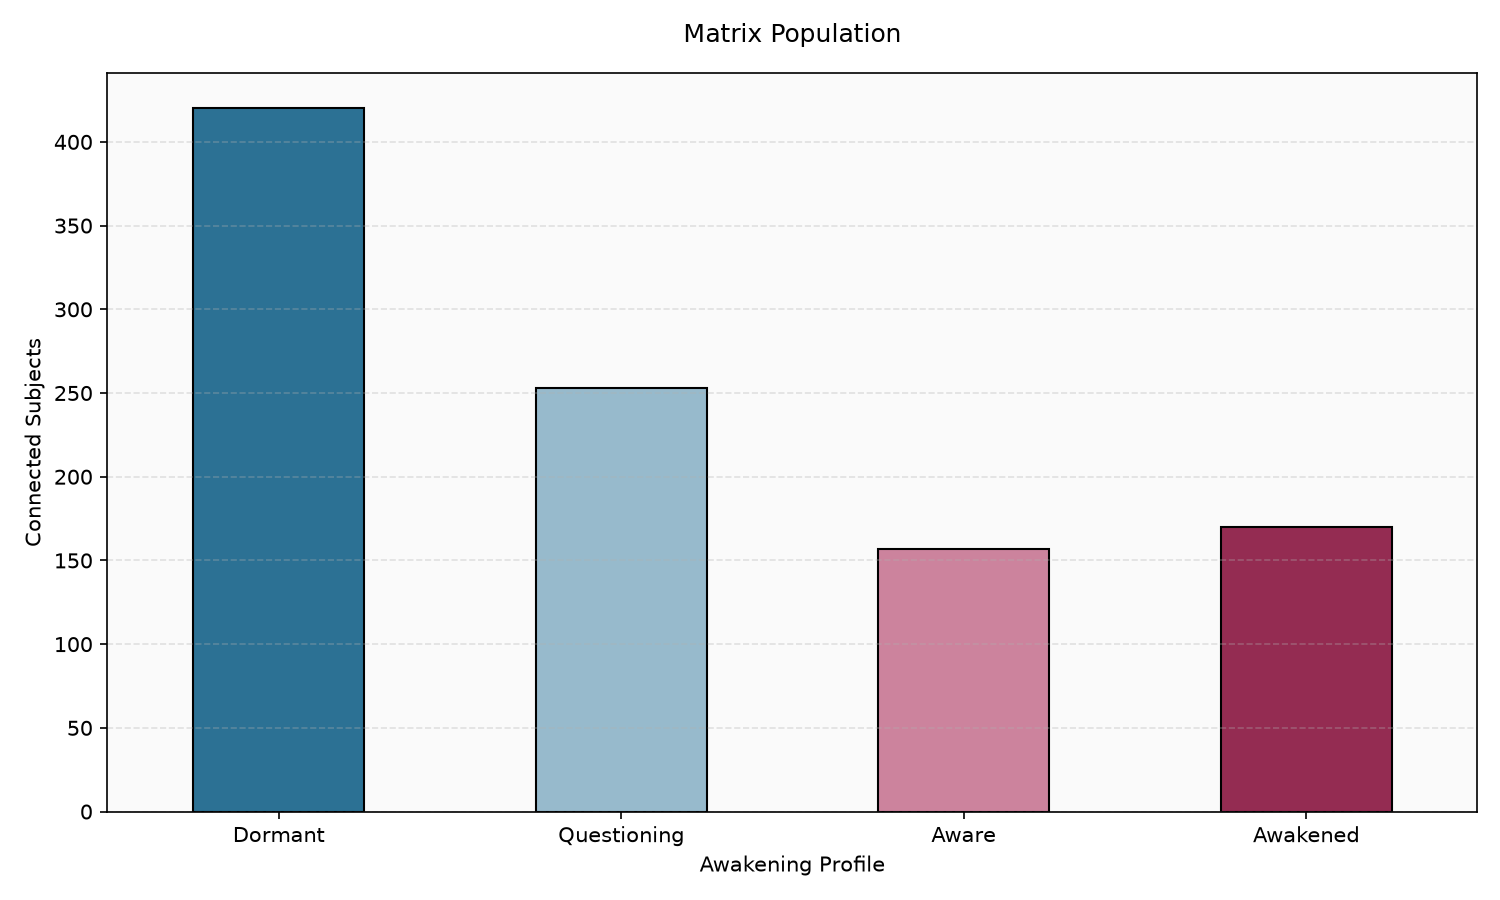
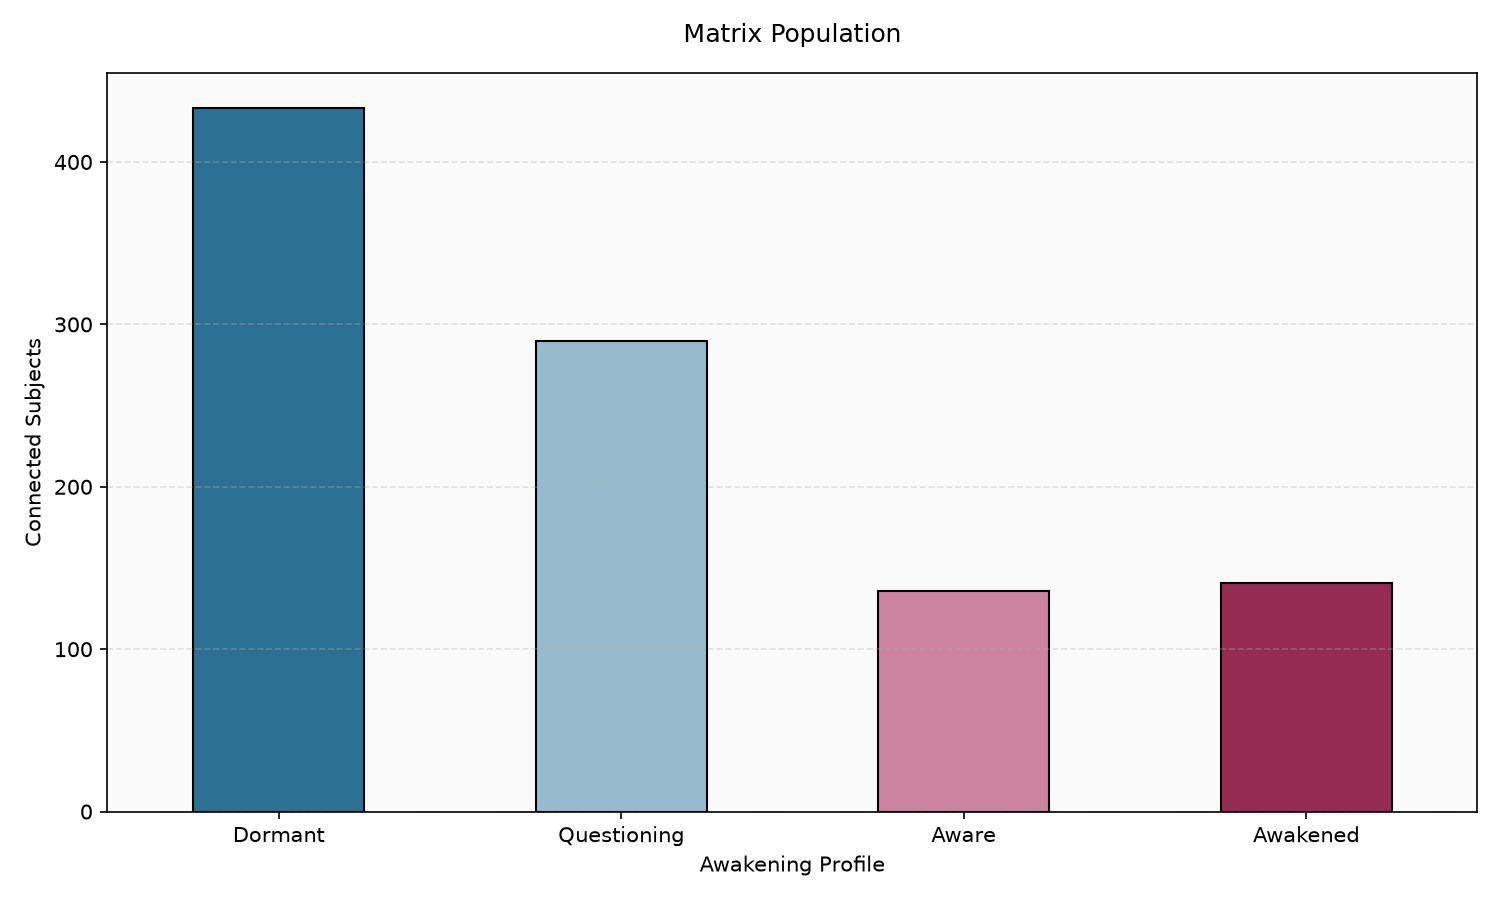
all

diff --git a/pm08/exp.html b/pm08/exp.html
@@ -1,0 +1,185 @@
+<!doctype html>
+<html lang="en">
+<head>
+  <meta charset="utf-8">
+  <meta name="viewport" content="width=device-width, initial-scale=1">
+  <title>Matrix Data Engineering — Evaluation Guide</title>
+  <style>
+    :root {
+      --navy: #102236;
+      --blue: #2c7194;
+      --pale-blue: #97bacc;
+      --rose: #cc839d;
+      --red: #942c52;
+      --paper: #ffffff;
+      --soft: #f4f7fa;
+      --ink: #1f2933;
+      --muted: #536271;
+      --line: #d7e0e8;
+      --code: #17212b;
+    }
+    * { box-sizing: border-box; }
+    body {
+      margin: 0;
+      color: var(--ink);
+      background: var(--soft);
+      font-family: Arial, Helvetica, sans-serif;
+      line-height: 1.55;
+    }
+    main {
+      max-width: 980px;
+      margin: 28px auto;
+      padding: 46px 58px;
+      background: var(--paper);
+      box-shadow: 0 2px 14px rgba(16, 34, 54, 0.12);
+    }
+    h1, h2, h3 { color: var(--navy); line-height: 1.2; }
+    h1 { font-size: 2.1rem; margin: 0 0 8px; }
+    h2 { border-bottom: 2px solid var(--pale-blue); margin-top: 42px; padding-bottom: 8px; }
+    h3 { margin-top: 28px; }
+    .subtitle { color: var(--muted); margin-top: 0; font-size: 1.05rem; }
+    .note, .answer, .warning {
+      border-left: 5px solid var(--blue);
+      background: #eef6fa;
+      padding: 14px 17px;
+      margin: 18px 0;
+    }
+    .answer { border-left-color: var(--red); background: #fcf2f5; }
+    .warning { border-left-color: #b27819; background: #fff8e8; }
+    code {
+      font-family: Consolas, "Courier New", monospace;
+      background: #edf2f5;
+      padding: 1px 4px;
+      border-radius: 3px;
+    }
+    pre {
+      background: var(--code);
+      color: #e8f0f5;
+      padding: 16px;
+      overflow-x: auto;
+      border-radius: 5px;
+      line-height: 1.45;
+    }
+    pre code { background: transparent; padding: 0; }
+    table { border-collapse: collapse; width: 100%; margin: 16px 0 22px; }
+    th, td { border: 1px solid var(--line); text-align: left; padding: 9px 10px; vertical-align: top; }
+    th { background: #eaf1f5; color: var(--navy); }
+    ul, ol { padding-left: 22px; }
+    li { margin: 6px 0; }
+    .toc a { color: var(--blue); text-decoration: none; }
+    .toc a:hover { text-decoration: underline; }
+    .small { color: var(--muted); font-size: .93rem; }
+    @media print {
+      body { background: white; }
+      main { margin: 0; max-width: none; box-shadow: none; padding: 18mm; }
+      h2 { page-break-after: avoid; }
+      pre, table, .note, .answer, .warning { break-inside: avoid; }
+    }
+  </style>
+</head>
+<body>
+<main>
+  <h1>Matrix Data Engineering</h1>
+  <p class="subtitle">Evaluation guide — project flow, concepts, explanations, and rehearsal answers</p>
+
+  <div class="note">
+    <strong>Project in one sentence:</strong> This project demonstrates how to isolate Python projects with virtual environments, manage dependencies with pip and Poetry, and load secure configuration through environment variables; Exercise 1 also simulates and visualizes a Matrix population.
+  </div>
+
+  <h2>Contents</h2>
+  <ol class="toc">
+    <li><a href="#map">Project map</a></li>
+    <li><a href="#ex0">Exercise 0 — construct.py</a></li>
+    <li><a href="#ex1">Exercise 1 — loading.py</a></li>
+    <li><a href="#ex2">Exercise 2 — oracle.py</a></li>
+    <li><a href="#concepts">Important concepts</a></li>
+    <li><a href="#tests">Testing checklist</a></li>
+    <li><a href="#questions">Evaluation questions and answers</a></li>
+  </ol>
+
+  <h2 id="map">1. Project map</h2>
+  <table>
+    <thead><tr><th>Exercise</th><th>Files</th><th>Main lesson</th></tr></thead>
+    <tbody>
+      <tr><td>0</td><td><code>construct.py</code></td><td>Detecting and understanding virtual environments.</td></tr>
+      <tr><td>1</td><td><code>loading.py</code>, <code>requirements.txt</code>, <code>pyproject.toml</code></td><td>Managing dependencies with pip and Poetry; generating, analyzing, and plotting simulated data.</td></tr>
+      <tr><td>2</td><td><code>oracle.py</code>, <code>requirements.txt</code>, <code>.env.example</code>, <code>.gitignore</code></td><td>Secure configuration through environment variables and <code>.env</code> files.</td></tr>
+    </tbody>
+  </table>
+
+  <h2 id="ex0">2. Exercise 0 — construct.py</h2>
+  <h3>Purpose</h3>
+  <p>This program checks whether the currently running Python interpreter belongs to a virtual environment. It prints different information and instructions depending on the result.</p>
+
+  <h3>Imports</h3>
+  <table>
+    <thead><tr><th>Import</th><th>Meaning and use</th></tr></thead>
+    <tbody>
+      <tr><td><code>import sys</code></td><td>Gives information about the running Python interpreter: <code>sys.prefix</code>, <code>sys.base_prefix</code>, and <code>sys.executable</code>.</td></tr>
+      <tr><td><code>import os</code></td><td>Lets the program read environment variables such as <code>VIRTUAL_ENV</code> and manipulate file paths.</td></tr>
+      <tr><td><code>import site</code></td><td>Provides package-installation locations through <code>site.getsitepackages()</code> and <code>site.getusersitepackages()</code>.</td></tr>
+    </tbody>
+  </table>
+
+  <h3>Flow</h3>
+  <ol>
+    <li>Python runs <code>main()</code> only when the file is executed directly, because of <code>if __name__ == "__main__"</code>.</li>
+    <li><code>in_virtual_environment()</code> compares <code>sys.prefix</code> with <code>sys.base_prefix</code>.</li>
+    <li>If they differ, Python is running inside a venv. If they are the same, it is using global Python.</li>
+    <li><code>get_environment_name()</code> tries to read <code>VIRTUAL_ENV</code>; it extracts the final folder name with <code>os.path.basename()</code>.</li>
+    <li><code>get_package_path()</code> finds the active package directory, normally a path ending in <code>site-packages</code>.</li>
+    <li>The program prints either a success message for the venv or instructions to create and activate one.</li>
+  </ol>
+
+  <h3>Key commands</h3>
+  <pre><code>python3 -m venv matrix_env
+source matrix_env/bin/activate      # Unix/macOS
+matrix_env\Scripts\activate         # Windows
+deactivate</code></pre>
+  <ul>
+    <li><code>python3 -m venv matrix_env</code> creates a venv folder named <code>matrix_env</code>.</li>
+    <li>Activation changes the current terminal session so <code>python</code> and <code>pip</code> use that venv.</li>
+    <li><code>deactivate</code> leaves the venv but does not delete it. You can activate the same venv later and keep its installed packages.</li>
+  </ul>
+
+  <h2 id="ex1">3. Exercise 1 — loading.py</h2>
+  <h3>Purpose</h3>
+  <p>This is a Matrix population scanner. It checks packages, explains pip and Poetry, simulates 1,000 connected subjects, calculates an awakening score, places each subject into an awakening profile, counts profiles, and saves a chart as <code>matrix_analysis.png</code>.</p>
+
+  <h3>Imports</h3>
+  <table>
+    <thead><tr><th>Import</th><th>Use in this file</th></tr></thead>
+    <tbody>
+      <tr><td><code>import sys</code></td><td>Uses <code>sys.exit(1)</code> to stop safely when dependencies are unavailable.</td></tr>
+      <tr><td><code>from importlib import metadata</code></td><td>Uses <code>metadata.version(package_name)</code> to ask Python which installed version a package has.</td></tr>
+      <tr><td><code>from typing import Final</code></td><td>Marks configuration values as constants that should not be reassigned.</td></tr>
+      <tr><td><code>import numpy as np</code></td><td>Imported inside <code>run_analysis()</code>. Generates numerical random data and clips values to a percentage range.</td></tr>
+      <tr><td><code>import pandas as pnd</code></td><td>Imported inside <code>run_analysis()</code>. Creates the table, calculates columns, categorizes scores, and counts profiles.</td></tr>
+      <tr><td><code>import matplotlib.pyplot as plt</code></td><td>Imported inside <code>run_analysis()</code>. Saves the chart image.</td></tr>
+    </tbody>
+  </table>
+
+  <h3>Constants</h3>
+  <table>
+    <thead><tr><th>Constant</th><th>Role</th></tr></thead>
+    <tbody>
+      <tr><td><code>DEPENDENCIES</code></td><td>Maps required package names to a plain-language purpose, so one loop can check and report them.</td></tr>
+      <tr><td><code>SUBJECT_COUNT = 1000</code></td><td>Defines how many simulated people are generated.</td></tr>
+      <tr><td><code>PROFILE_BINS</code></td><td>Defines numerical boundaries used to classify the awakening score.</td></tr>
+      <tr><td><code>PROFILE_LABELS</code></td><td>Defines the ordered categories: Dormant, Questioning, Aware, Awakened.</td></tr>
+      <tr><td><code>PROFILE_COLORS</code></td><td>Defines the colors used for the profile-count bars.</td></tr>
+    </tbody>
+  </table>
+
+  <h3>Complete flow</h3>
+  <ol>
+    <li><strong>Entry point:</strong> <code>main()</code> starts when <code>loading.py</code> runs directly.</li>
+    <li><strong>Dependency check:</strong> <code>check_dependencies()</code> loops over pandas, NumPy, and matplotlib.</li>
+    <li><strong>Version lookup:</strong> <code>get_package_version()</code> calls <code>metadata.version()</code>. It returns the version string or <code>None</code> when the distribution is missing.</li>
+    <li><strong>Graceful failure:</strong> if any required package is missing, the script prints pip and Poetry installation instructions and ends with <code>sys.exit(1)</code>.</li>
+    <li><strong>Dependency explanation:</strong> it prints the practical distinction between pip and Poetry.</li>
+    <li><strong>Safe imports:</strong> after the checks pass, it imports matplotlib, NumPy, and pandas inside <code>run_analysis()</code>. The <code>try/except ImportError</code> is a second safety layer.</li>
+    <li><strong>Generate Matrix signal:</strong> NumPy produces 1,000 values with a normal distribution centered at 10 and a wide spread of 90. <code>np.clip(..., 0, 100)</code> forces all values into the valid percentage range.</li>
+    <li><strong>Generate resistance rate:</strong> NumPy produces 1,000 uniformly distributed values from 0 up to 100.</li>
+    <li><strong>Create a DataFrame:</strong> pandas stores both arrays as columns in a 1,000-row table.</li>
+    <li><strong>Calculate awakening score:</strong> the script gives Matrix signal 60

diff --git a/pm08/ex2/oracle.py b/pm08/ex2/oracle.py
@@ -1,59 +1,52 @@
 import os
 import sys
-from typing import Final
 
 try:
     from dotenv import load_dotenv
 except ImportError:
     print("[WARNING] python-dotenv not found.")
     print("Install it with:")
-    print("pip install python-dotenv")
+    print("pip install -r requirements.txt")
     sys.exit(1)
 
 
-REQUIRED_VARIABLES: Final[tuple[str, ...]] = (
+REQUIRED_VARIABLES = (
     "MATRIX_MODE",
     "DATABASE_URL",
     "API_KEY",
     "LOG_LEVEL",
-    "ZION_ENDPOINT")
+    "ZION_ENDPOINT",
+)
 
 
 def load_configuration() -> dict[str, str | None]:
     load_dotenv()
 
-    configuration: dict[str, str | None] = {
+    return {
         "MATRIX_MODE": os.getenv("MATRIX_MODE"),
         "DATABASE_URL": os.getenv("DATABASE_URL"),
         "API_KEY": os.getenv("API_KEY"),
         "LOG_LEVEL": os.getenv("LOG_LEVEL"),
-        "ZION_ENDPOINT": os.getenv("ZION_ENDPOINT")}
-    return configuration
+        "ZION_ENDPOINT": os.getenv("ZION_ENDPOINT"),
+    }
 
 
 def validate_configuration(
     configuration: dict[str, str | None],
 ) -> list[str]:
-    missing_variables: list[str] = []
+    config_issues: list[str] = []
 
     for variable_name in REQUIRED_VARIABLES:
         if not configuration.get(variable_name):
-            missing_variables.append(variable_name)
+            config_issues.append(variable_name)
 
     matrix_mode = configuration.get("MATRIX_MODE")
     if matrix_mode and matrix_mode not in {"development", "production"}:
-        missing_variables.append(
-            "MATRIX_MODE must be 'development' or 'production'")
+        config_issues.append(
+            "MATRIX_MODE must be 'development' or 'production'"
+        )
 
-    return missing_variables
-
-
-def mask_secret(secret: str | None) -> str:
-    if not secret:
-        return "Missing"
-    if len(secret) <= 4:
-        return "*" * len(secret)
-    return f"{secret[:2]}{'*' * (len(secret) - 4)}{secret[-2:]}"
+    return config_issues
 
 
 def print_configuration(configuration: dict[str, str | None]) -> None:
@@ -80,10 +73,9 @@ def print_configuration(configuration: dict[str, str | None]) -> None:
     print(
         "Zion Network: Online"
         if zion_endpoint
-        else "Zion Network: Offline")
-
-    print(f"Database URL: {database_url}")
-    print(f"API Key: {mask_secret(api_key)}")
+        else "Zion Network: Offline"
+    )
+    print("Database URL: Configured" if database_url else "Database URL: Missing")
 
 
 def print_security_check() -> None:
@@ -97,17 +89,18 @@ def print_security_check() -> None:
         print("[WARNING] .env file not found in current directory")
 
     print("[OK] Production overrides available via environment variables")
-    print("The Oracle sees all configurations.")
+    print()
+    print("The Oracle sees all configurations.\n")
 
 
 def main() -> None:
-    print("ORACLE STATUS: Reading the Matrix...")
+    print("\nORACLE STATUS: Reading the Matrix...\n")
     configuration = load_configuration()
-    missing_variables = validate_configuration(configuration)
+    config_issues = validate_configuration(configuration)
 
-    if missing_variables:
+    if config_issues:
         print("Configuration warnings:")
-        for variable_name in missing_variables:
+        for variable_name in config_issues:
             print(f"- Missing or invalid: {variable_name}")
         print("ORACLE STATUS: Matrix configuration is incomplete")
         print_security_check()

diff --git a/pm08/ex1/loading.py b/pm08/ex1/loading.py
@@ -4,17 +4,17 @@ from typing import Final
 
 
 DEPENDENCIES: Final[dict[str, str]] = {
-    "pandas": "Data manipulation",
     "numpy": "Numerical computation",
-    "matplotlib": "Visualization"}
+    "pandas": "Data manipulation",
+    "matplotlib": "Data visualization"}
 
 SUBJECT_COUNT: Final[int] = 1000
 
 PROFILE_BINS: Final[list[float]] = [
     -0.1,
     30.0,
-    50.0,
-    70.0,
+    60.0,
+    75.0,
     100.1]
 
 PROFILE_LABELS: Final[list[str]] = [
@@ -83,7 +83,7 @@ def run_analysis() -> None:
         sys.exit(1)
 
     matrix_signal = np.clip(
-        np.random.normal(loc=10, scale=90, size=SUBJECT_COUNT), 0, 100)
+        np.random.normal(loc=5, scale=90, size=SUBJECT_COUNT), 0, 100)
 
     resistance_rate = np.random.uniform(low=0, high=100, size=SUBJECT_COUNT)
 
